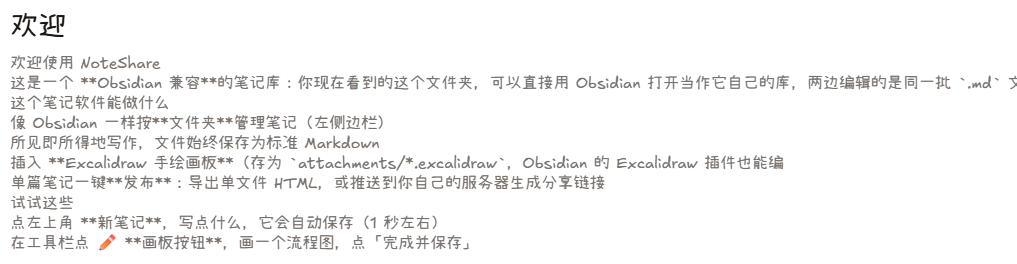
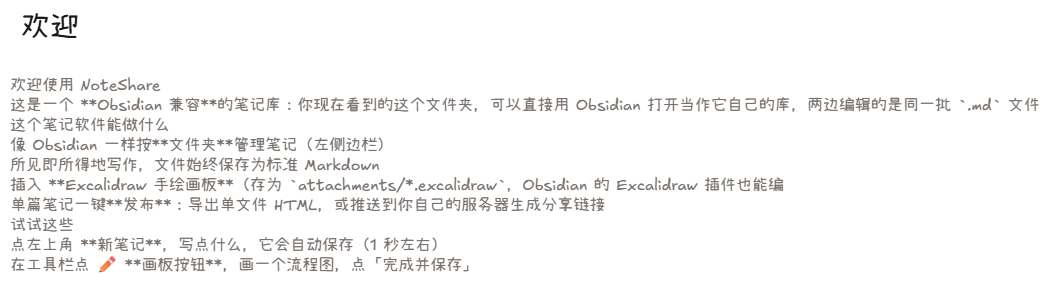
分栏宽度可拖拽；导航与收起按钮移入侧栏；各栏顶部常显标题
- 栏间分隔线可拖动调整宽度（Workspace.setSize，最小 240px，悬停高亮）
- ‹ 返回 / › 前进 / 收起侧栏 三个按钮从笔记顶栏移到侧栏顶部 tab 行右侧
- 收起后主区左上出现浮动展开按钮
- 修复：所有栏顶栏常显当前笔记标题（此前活动栏左侧被清空）

Changed region(s): [[0.0, 0.2121, 1.0, 0.9697], [0.0, 0.0303, 0.0914, 0.1515]]

diff --git a/src/App.tsx b/src/App.tsx
@@ -1,4 +1,4 @@
-import { Suspense, lazy, useCallback, useEffect, useState } from "react";
+import { Fragment, Suspense, lazy, useCallback, useEffect, useState } from "react";
 import { backend } from "./backend";
 import { useSettings } from "./i18n";
 import { DomainProvider, useDomain, useWorkspaceVersion } from "./domain/provider";
@@ -180,6 +180,11 @@ export default function App() {
             canPickVault={backend.mode === "tauri"}
             onResize={setSideWidth}
             onOpenSettings={() => setSettingsOpen(true)}
+            canBack={canBack}
+            canForward={canForward}
+            onBack={() => jumpHistory(-1)}
+            onForward={() => jumpHistory(1)}
+            onToggleSidebar={() => setSideCollapsed((v) => !v)}
           />
         </div>
         <main className="flex min-w-0 flex-1 overflow-hidden">
@@ -209,26 +214,58 @@ export default function App() {
               </button>
             </div>
           ) : (
-            <div className="flex h-full min-w-0 w-full">
-              {workspace.all.map((pane) => {
+            <div className="relative flex h-full min-w-0 w-full">
+              {sideCollapsed && (
+                <button
+                  className="side-toggle-float"
+                  data-tip={t("expandSidebar")}
+                  onClick={() => setSideCollapsed(false)}
+                >
+                  {I.panelLeft}
+                </button>
+              )}
+              {workspace.all.map((pane, idx) => {
                 const isActive = pane.id === activePane.id;
+                const prev = workspace.all[idx - 1];
                 return (
-                  <section
-                    key={pane.id}
-                    className={`pane-col ${isActive ? "pane-col-active" : ""}`}
-                    onPointerDown={() => workspace.focus(pane.id)}
-                  >
+                  <Fragment key={pane.id}>
+                    {idx > 0 && (
+                      <div
+                        className="pane-resizer"
+                        onPointerDown={(e) => {
+                          e.preventDefault();
+                          const startX = e.clientX;
+                          const leftEl = (e.currentTarget as HTMLElement)
+                            .previousElementSibling as HTMLElement;
+                          const rightEl = (e.currentTarget as HTMLElement)
+                            .nextElementSibling as HTMLElement;
+                          const startL = leftEl.getBoundingClientRect().width;
+                          const startR = rightEl.getBoundingClientRect().width;
+                          document.body.classList.add("resizing");
+                          const move = (ev: PointerEvent) => {
+                            const dx = ev.clientX - startX;
+                            workspace.setSize(prev.id, startL + dx);
+                            workspace.setSize(pane.id, startR - dx);
+                          };
+                          const up = () => {
+                            window.removeEventListener("pointermove", move);
+                            window.removeEventListener("pointerup", up);
+                            window.removeEventListener("pointercancel", up);
+                            document.body.classList.remove("resizing");
+                          };
+                          window.addEventListener("pointermove", move);
+                          window.addEventListener("pointerup", up);
+                          window.addEventListener("pointercancel", up);
+                        }}
+                      />
+                    )}
+                    <section
+                      className={`pane-col ${isActive ? "pane-col-active" : ""}`}
+                      style={pane.width ? { flex: `0 0 ${pane.width}px` } : undefined}
+                      onPointerDown={() => workspace.focus(pane.id)}
+                    >
                     {pane.path === null ? (
                       <div className="view-swap relative h-full">
-                        {isActive && (
-                          <button
-                            className="side-toggle-float"
-                            data-tip={sideCollapsed ? t("expandSidebar") : t("collapseSidebar")}
-                            onClick={() => setSideCollapsed((v) => !v)}
-                          >
-                            {I.panelLeft}
-                          </button>
-                        )}
                         <EmptyState
                           vaultName={vaultName}
                           onNewNote={async () => {
@@ -244,15 +281,10 @@ export default function App() {
                         active={isActive}
                         closable={workspace.all.length > 1}
                         onClose={() => workspace.close(pane.id)}
-                        canBack={canBack}
-                        canForward={canForward}
-                        onBack={() => jumpHistory(-1)}
-                        onForward={() => jumpHistory(1)}
-                        onToggleSidebar={() => setSideCollapsed((v) => !v)}
-                        sideCollapsed={sideCollapsed}
                       />
                     )}
                   </section>
+                  </Fragment>
                 );
               })}
             </div>

diff --git a/src/components/Editor.tsx b/src/components/Editor.tsx
@@ -49,12 +49,6 @@ interface Props {
   /** 多栏时显示关闭按钮 */
   closable?: boolean;
   onClose?: () => void;
-  onToggleSidebar: () => void;
-  sideCollapsed: boolean;
-  canBack: boolean;
-  canForward: boolean;
-  onBack: () => void;
-  onForward: () => void;
 }
 
 export default function Editor({
@@ -62,12 +56,6 @@ export default function Editor({
   active,
   closable,
   onClose,
-  onToggleSidebar,
-  sideCollapsed,
-  canBack,
-  canForward,
-  onBack,
-  onForward,
 }: Props) {
   const { t } = useSettings();
   const { directory, notes: noteService, positions, bus } = useDomain();
@@ -563,37 +551,12 @@ export default function Editor({
           style={{ borderColor: "var(--line)" }}
         >
           <div className="flex items-center gap-1">
-            {active ? (
-              <>
-                <button
-                  className="top-icon-btn"
-                  data-tip={sideCollapsed ? t("expandSidebar") : t("collapseSidebar")}
-                  onClick={onToggleSidebar}
-                >
-                  {I.panelLeft}
-                </button>
-                <button
-                  className="top-icon-btn"
-                  data-tip={t("navBack")}
-                  disabled={!canBack}
-                  onClick={onBack}
-                >
-                  {I.back}
-                </button>
-                <button
-                  className="top-icon-btn"
-                  data-tip={t("navForward")}
-                  disabled={!canForward}
-                  onClick={onForward}
-                >
-                  {I.forward}
-                </button>
-              </>
-            ) : (
-              <span className="max-w-[160px] truncate px-1 text-xs text-faint" title={initialPath}>
-                {initialPath.split("/").pop()?.replace(/\.md$/i, "")}
-              </span>
-            )}
+            <span
+              className={`max-w-[200px] truncate px-1 text-xs ${active ? "text-soft" : "text-faint"}`}
+              title={initialPath}
+            >
+              {initialPath.split("/").pop()?.replace(/\.md$/i, "")}
+            </span>
             {saveState === "error" && (
               <span className="px-1 text-xs text-red-500">{t("saveErrorHint", { mod: MOD_KEY })}</span>
             )}

diff --git a/src/components/Sidebar.tsx b/src/components/Sidebar.tsx
@@ -40,6 +40,12 @@ interface Props {
   canPickVault: boolean;
   onResize: (width: number) => void;
   onOpenSettings: () => void;
+  /** 历史导航与侧栏收起（按钮放侧栏顶部 tab 行） */
+  canBack: boolean;
+  canForward: boolean;
+  onBack: () => void;
+  onForward: () => void;
+  onToggleSidebar: () => void;
 }
 
 export default function Sidebar(props: Props) {
@@ -184,6 +190,30 @@ export default function Sidebar(props: Props) {
           onClick={() => setTab("search")}
         >
           {I.search}
+        </button>
+        <span className="flex-1" />
+        <button
+          className="side-tab"
+          data-tip={t("navBack")}
+          disabled={!props.canBack}
+          onClick={props.onBack}
+        >
+          {I.back}
+        </button>
+        <button
+          className="side-tab"
+          data-tip={t("navForward")}
+          disabled={!props.canForward}
+          onClick={props.onForward}
+        >
+          {I.forward}
+        </button>
+        <button
+          className="side-tab"
+          data-tip={t("collapseSidebar")}
+          onClick={props.onToggleSidebar}
+        >
+          {I.panelLeft}
         </button>
       </div>
 

diff --git a/src/domain/workspace.ts b/src/domain/workspace.ts
@@ -9,6 +9,8 @@ export const MAX_PANES = 3;
 export interface Pane {
   id: number;
   path: string | null; // null = 空栏（欢迎页）
+  /** 栏宽（像素）；未设置 = 平分剩余空间 */
+  width?: number;
 }
 
 export class Workspace {
@@ -46,6 +48,14 @@ export class Workspace {
       this.activeId = pane.id;
       this.bus.emit({ type: "paneOpened", paneId: pane.id, path });
     }
+    this.bump();
+  }
+
+  /** 调整栏宽（拖动分隔线）；低于最小宽度会被忽略 */
+  setSize(id: number, width: number) {
+    const pane = this.panes.find((p) => p.id === id);
+    if (!pane || width < 240) return;
+    pane.width = Math.round(width);
     this.bump();
   }
 

diff --git a/src/styles.css b/src/styles.css
@@ -980,14 +980,22 @@ body {
 .pane-col {
   flex: 1 1 0;
   min-width: 0;
-  border-left: 1px solid var(--line);
   overflow: hidden;
-}
-.pane-col:first-child {
-  border-left: none;
 }
 .pane-col-active {
   background: var(--paper);
+}
+/* 栏间拖宽分隔线 */
+.pane-resizer {
+  flex: none;
+  width: 5px;
+  cursor: col-resize;
+  z-index: 15;
+  background: transparent;
+  transition: background-color 0.15s ease;
+}
+.pane-resizer:hover {
+  background: rgb(var(--accent-rgb) / 0.35);
 }
 
 /* 滚动条 */
